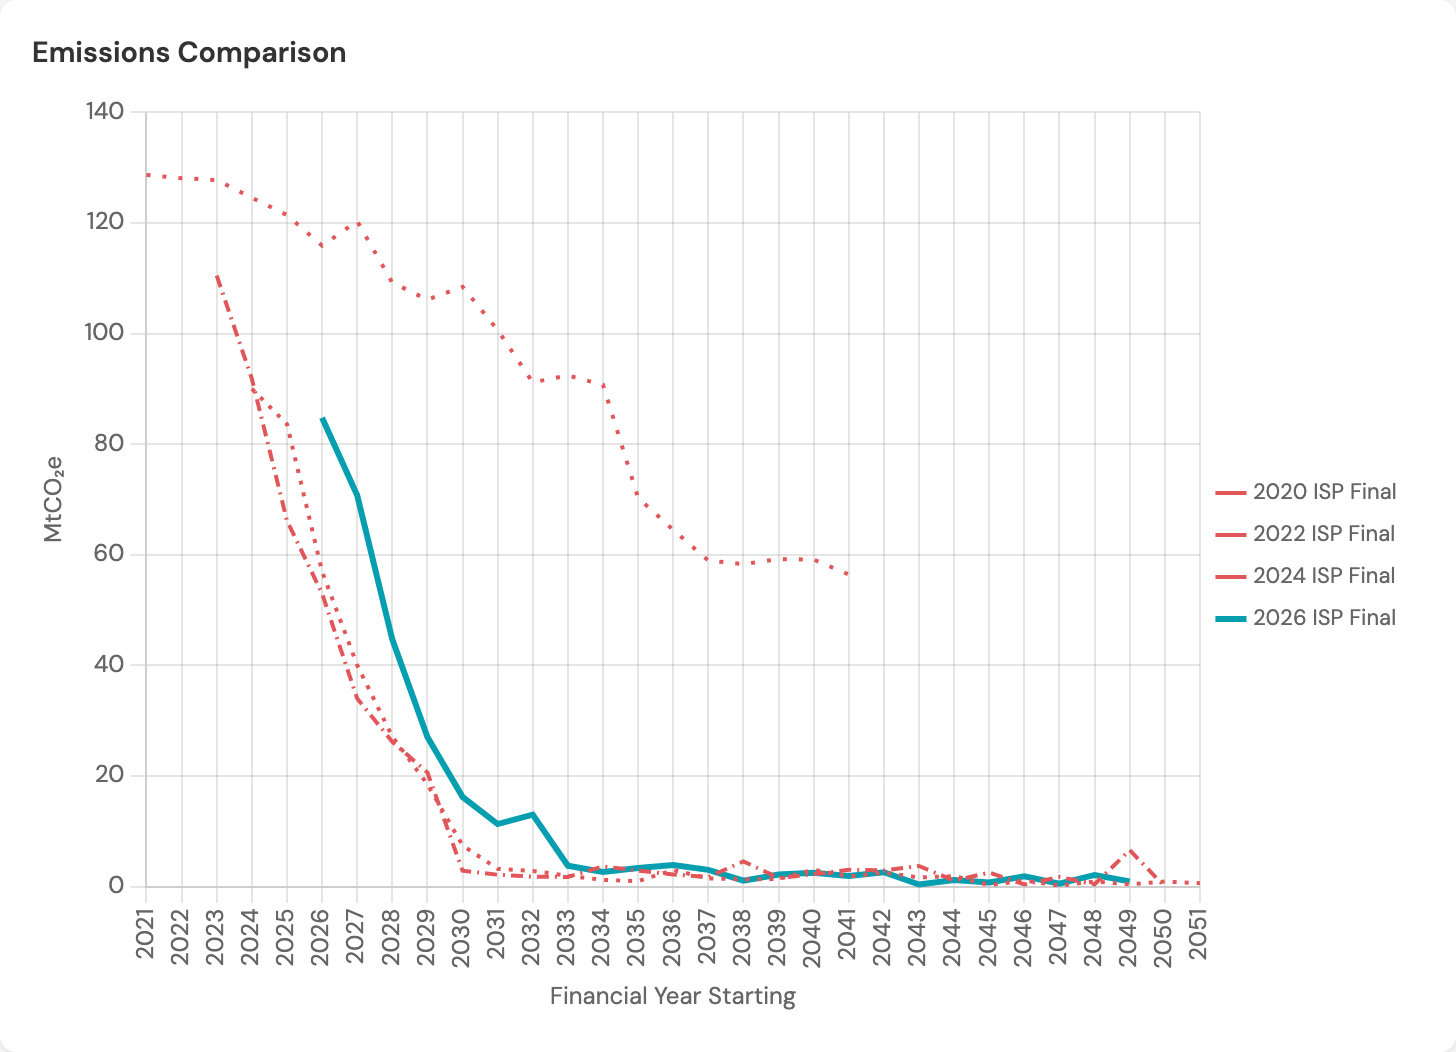
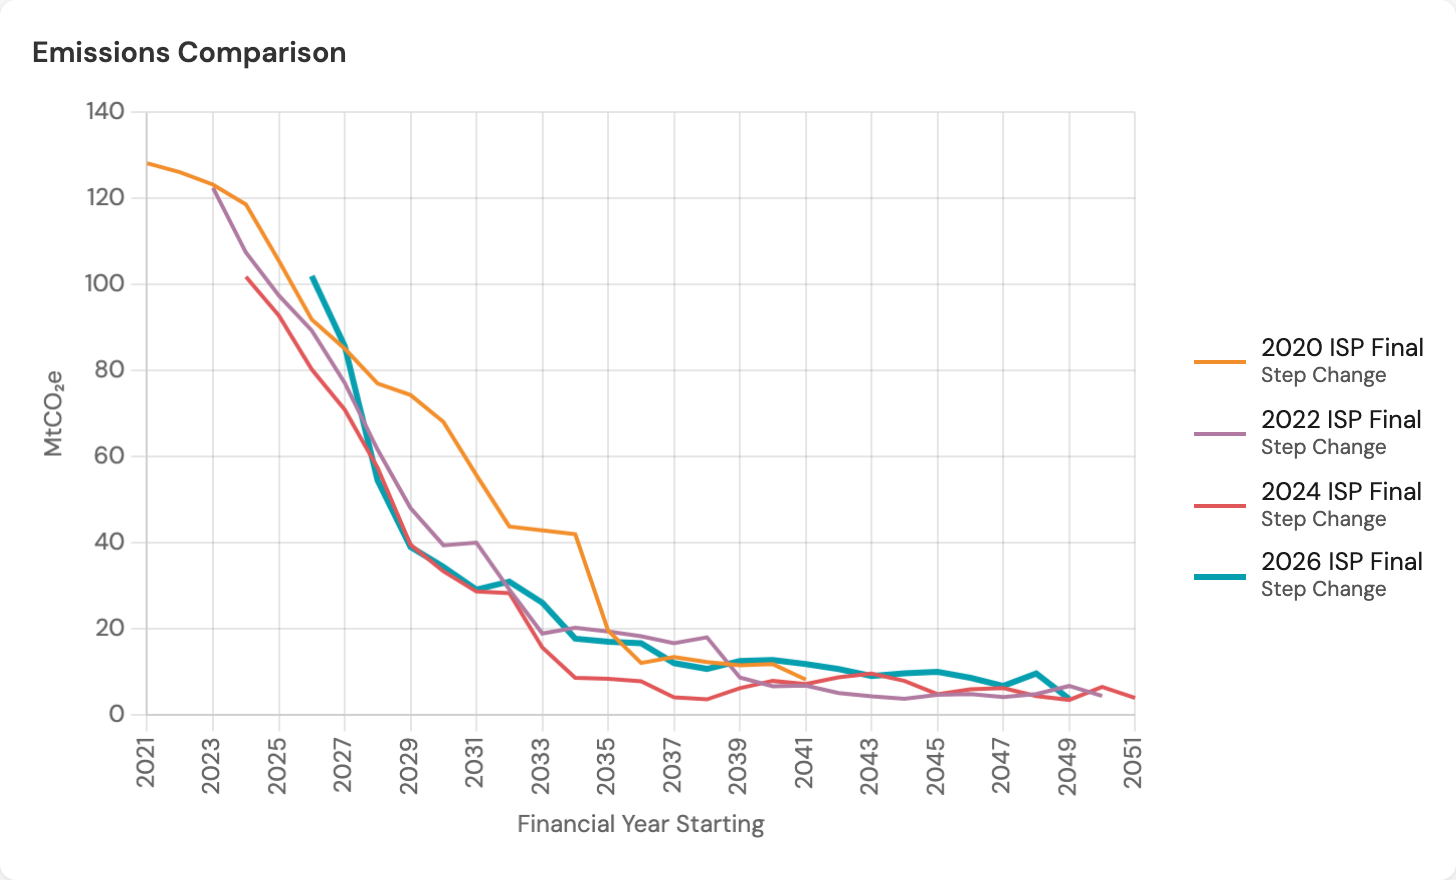
Compare emissions by Step Change across releases with a clearer legend
In comparison mode, load the same scenario (Step Change, common to every ISP)
for each release instead of each release's alphabetically-first scenario, so the
lines are actually comparable (previously 2020 showed Central, etc.). Give the
emissions comparison a distinct solid colour per release — newest in the brand
colour — so the legend line styles match the chart, and add a custom legend that
names the scenario under each release. Regenerate docs/emissions-comparison.png.

diff --git a/pages-template/app.js b/pages-template/app.js
@@ -77,6 +77,52 @@ function getCompareDash(releaseId) {
   return DASH_PATTERNS[Math.min(idx, DASH_PATTERNS.length - 1)];
 }
 
+// Compare mode plots one consistent scenario across releases. "Step Change" is
+// common to every ISP release, so use it; fall back to the first scenario.
+function pickCompareScenario(release) {
+  return release.scenarios.includes('step_change') ? 'step_change' : release.scenarios[0];
+}
+
+// Distinct solid colours for the emissions comparison (one line per release).
+// The newest release uses the brand colour; older vintages cycle this palette.
+const EMISSIONS_NEW_COLOR = '#069FAF';
+const EMISSIONS_COMPARE_COLORS = ['#F28E2B', '#B07AA1', '#E15759', '#9C755F', '#76B7B2', '#59A14F', '#EDC948'];
+
+// Build the custom per-release legend beside the emissions chart. Each entry
+// shows a colour-matched line sample, the release name, and the scenario below
+// it in a smaller font. Pass null to hide the legend (single-release mode).
+function setEmissionsLegend(items) {
+  const el = document.getElementById('emissions-legend');
+  if (!el) return;
+  el.innerHTML = '';
+  if (!items || !items.length) {
+    el.classList.remove('is-visible');
+    el.setAttribute('aria-hidden', 'true');
+    return;
+  }
+  for (const it of items) {
+    const item = document.createElement('div');
+    item.className = 'legend-item';
+    const sw = document.createElement('span');
+    sw.className = 'legend-swatch';
+    sw.style.borderTopColor = it.color;
+    sw.style.borderTopWidth = (it.width || 2) + 'px';
+    const txt = document.createElement('span');
+    txt.className = 'legend-text';
+    const rel = document.createElement('span');
+    rel.className = 'legend-release';
+    rel.textContent = it.release;
+    const scen = document.createElement('span');
+    scen.className = 'legend-scenario';
+    scen.textContent = it.scenario;
+    txt.append(rel, scen);
+    item.append(sw, txt);
+    el.appendChild(item);
+  }
+  el.classList.add('is-visible');
+  el.setAttribute('aria-hidden', 'false');
+}
+
 const COST_COLORS = {
   generator_capital:                      '#4E79A7',
   fuel:                                   '#F28E2B',
@@ -373,6 +419,7 @@ function makeCostChart(canvasId, series, divisor, unit) {
 }
 
 function makeEmissionsChart(canvasId, emData, divisor, unit) {
+  setEmissionsLegend(null);  // single-release mode: no per-release legend
   const existing = Chart.getChart(canvasId);
   if (existing) existing.destroy();
   const ctx = document.getElementById(canvasId).getContext('2d');
@@ -569,9 +616,9 @@ async function renderComparison() {
   const activeReleases = RELEASES.filter(r => enabledReleases.has(r.id));
 
   try {
-    // Use the first scenario for each release in comparison mode
+    // Use one consistent scenario (Step Change) across releases in comparison mode
     const allData = await Promise.all(
-      activeReleases.map(r => loadData(r.id, r.scenarios[0]))
+      activeReleases.map(r => loadData(r.id, pickCompareScenario(r)))
     );
 
     // Generation comparison
@@ -695,9 +742,12 @@ function renderEmissionsComparison(canvasId, releases, allData) {
   const years = [...allYearsSet].sort();
   const yearIndex = new Map(years.map((y, i) => [y, i]));
 
-  // Highlight the most recent release (RELEASES is sorted oldest-first) in the
-  // brand colour; older vintages stay red and are told apart by dash pattern.
+  // One solid line per release in a distinct colour (so the legend can match
+  // exactly). The most recent release (RELEASES is oldest-first) uses the brand
+  // colour and a heavier line so it stands out.
   const newestId = RELEASES.length ? RELEASES[RELEASES.length - 1].id : null;
+  const legendItems = [];
+  let colorIdx = 0;
   for (const { release, em } of rawEmissions) {
     const aligned = new Array(years.length).fill(null);
     for (let i = 0; i < em.years.length; i++) {
@@ -705,17 +755,25 @@ function renderEmissionsComparison(canvasId, releases, allData) {
       if (idx !== undefined) aligned[idx] = em.values[i] / divisor;
     }
     const isNewest = release.id === newestId;
+    const color = isNewest
+      ? EMISSIONS_NEW_COLOR
+      : EMISSIONS_COMPARE_COLORS[colorIdx++ % EMISSIONS_COMPARE_COLORS.length];
+    const width = isNewest ? 3 : 2;
     datasets.push({
       label: release.label,
       data: aligned,
-      borderColor: isNewest ? '#069FAF' : '#E15759',
-      borderDash: isNewest ? [] : getCompareDash(release.id),
-      borderWidth: isNewest ? 3 : 2,
-      pointStyle: 'line',
+      borderColor: color,
+      borderWidth: width,
       pointRadius: 0,
       fill: false,
       tension: 0,
       spanGaps: true,
+    });
+    legendItems.push({
+      color,
+      width,
+      release: release.label,
+      scenario: formatScenario(pickCompareScenario(release)),
     });
   }
 
@@ -734,17 +792,13 @@ function renderEmissionsComparison(canvasId, releases, allData) {
       },
       plugins: {
         tooltip: { enabled: false },
-        // Per-release legend (line samples show each vintage's colour + dash)
-        legend: {
-          display: true,
-          position: 'right',
-          labels: { usePointStyle: true, pointStyle: 'line', boxWidth: 34, font: { size: 11 } },
-        },
+        legend: { display: false },  // replaced by the custom HTML legend
       },
       interaction: { mode: 'index', intersect: false },
     },
   });
   charts.push(chart);
+  setEmissionsLegend(legendItems);
 }
 
 function resetChartCards(titles) {

diff --git a/pages-template/style.css b/pages-template/style.css
@@ -362,6 +362,50 @@ body > .ts-dropdown .option.active {
 .chart-card canvas {
   width: 100% !important;
 }
+/* Emissions card: canvas + custom per-release legend side by side */
+.chart-row {
+  display: flex;
+  align-items: center;
+  gap: 0.75rem;
+}
+.chart-canvas-wrap {
+  flex: 1 1 auto;
+  min-width: 0;
+}
+.chart-legend {
+  display: none;
+  flex: 0 0 auto;
+  flex-direction: column;
+  gap: 0.5rem;
+  max-width: 42%;
+}
+.chart-legend.is-visible {
+  display: flex;
+}
+.chart-legend .legend-item {
+  display: flex;
+  align-items: center;
+  gap: 0.45rem;
+}
+.chart-legend .legend-swatch {
+  flex: 0 0 auto;
+  width: 26px;
+  height: 0;
+  border-top-style: solid;
+}
+.chart-legend .legend-text {
+  display: flex;
+  flex-direction: column;
+  line-height: 1.2;
+}
+.chart-legend .legend-release {
+  font-size: 0.78rem;
+  color: var(--color-text);
+}
+.chart-legend .legend-scenario {
+  font-size: 0.66rem;
+  color: var(--color-text-muted);
+}
 
 /* Comparison grid — 3 cols for fuel groups */
 .chart-grid.compare-mode {

diff --git a/pages-template/index.html b/pages-template/index.html
@@ -64,7 +64,10 @@
       </div>
       <div class="chart-card" id="card-emissions">
         <h3>Emissions</h3>
-        <canvas id="chart-emissions"></canvas>
+        <div class="chart-row">
+          <div class="chart-canvas-wrap"><canvas id="chart-emissions"></canvas></div>
+          <div class="chart-legend" id="emissions-legend" aria-hidden="true"></div>
+        </div>
         <div class="loading-overlay hidden" id="load-emissions"><div class="spinner"></div></div>
       </div>
       <div class="chart-card" id="card-cost">
